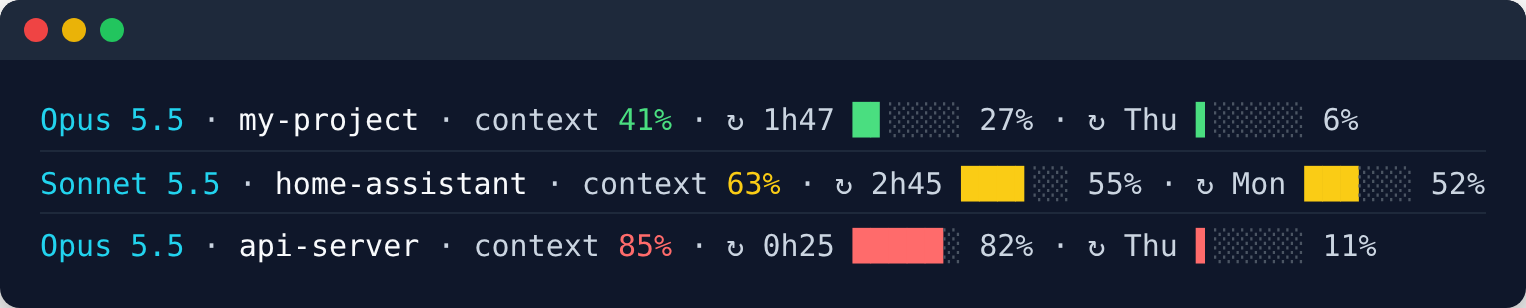
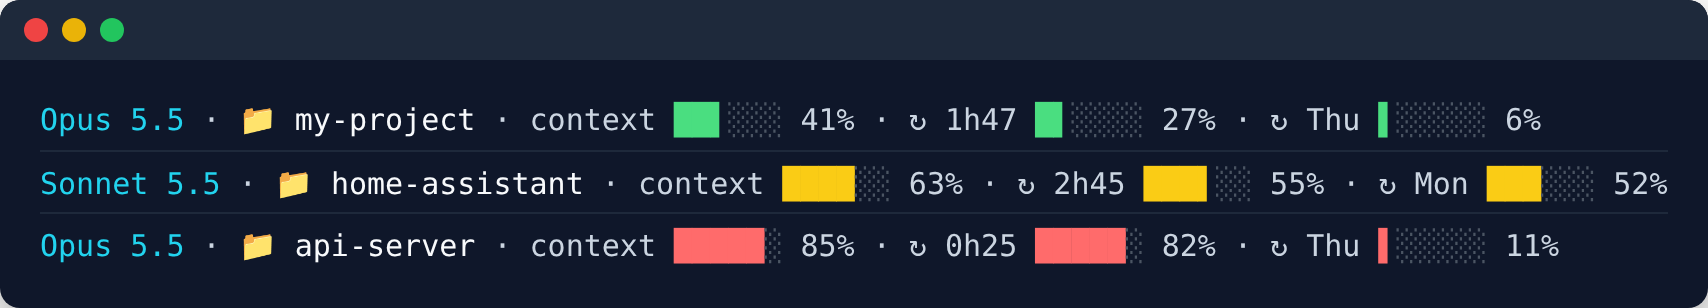
Status line: contexto em barra e icone de pasta; print atualizado
Claude-Session: https://claude.ai/code/session_01VF5mtEvuBR12kJqtAjfHkq

diff --git a/README.md b/README.md
@@ -5,6 +5,7 @@ optionally, on a **Home Assistant** dashboard.
 
 ![Claude Code status line with session and weekly usage bars in green, yellow and red](assets/statusline.png)
 
+- **Context** — how full the context window is: 🟢 < 60% · 🟡 60–80% · 🔴 ≥ 80%.
 - **Session (5 h window)** — label is the time left until it resets.
   Color by usage: 🟢 < 40% · 🟡 40–75% · 🔴 > 75%.
 - **Week (7 d window)** — label is the reset weekday (or `HH:MM` on reset day).
@@ -28,7 +29,7 @@ cp statusline/statusline.sh ~/.claude/statusline.sh && chmod +x ~/.claude/status
 ```
 
 Needs `jq`, `awk` and GNU `date`. Weekday names follow your locale (`LC_TIME`/`LANG`).
-Tunables (env): `CC_BARS_WIDTH` (6), `CC_BARS_SESSION_YELLOW` (40), `CC_BARS_SESSION_RED` (75),
+Tunables (env): `CC_BARS_WIDTH` (6), `CC_BARS_CONTEXT_YELLOW` (60), `CC_BARS_CONTEXT_RED` (80), `CC_BARS_SESSION_YELLOW` (40), `CC_BARS_SESSION_RED` (75),
 `CC_BARS_PACE_YELLOW` (90), `CC_BARS_PACE_RED` (100).
 
 ## 2. Home Assistant (optional)
